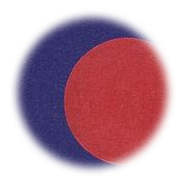
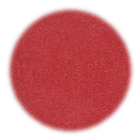
누끼 분리 보강, 해달 정중심, lenis 스무스 스크롤과 자석 스냅

diff --git a/src/components/minhwa/ArtStage.vue b/src/components/minhwa/ArtStage.vue
@@ -42,10 +42,10 @@ const washStyle = computed(() => ({
   opacity: clamp01((props.p - 0.87) / 0.12).toFixed(3),
 }))
 
-// 흐린 원화 색면 배경 — 빠져들수록 살짝 커지고 어두워진다
+// 원화 배경 — 너무 날아가지 않게 또렷함을 유지한 채 뒤로 물러난다
 const backdropStyle = computed(() => ({
-  transform: `scale(${(1.35 + dive.value * 0.2).toFixed(3)}) translate3d(${(-props.mx * 8).toFixed(1)}px, ${(-props.my * 6).toFixed(1)}px, 0)`,
-  opacity: (0.5 - dive.value * 0.12).toFixed(3),
+  transform: `scale(${(1.32 + dive.value * 0.18).toFixed(3)}) translate3d(${(-props.mx * 8).toFixed(1)}px, ${(-props.my * 6).toFixed(1)}px, 0)`,
+  opacity: (0.78 - dive.value * 0.1).toFixed(3),
 }))
 
 // 누끼 인물 — 깊이별 시차 + 빠져들 때 분리
@@ -65,13 +65,17 @@ function cutStyle(c) {
 
 // ── inkfill ──
 // waterIntro면 해·달이 물에서 떠오른 뒤(p~0.24)에야 물감이 번지기 시작한다
-const fillStart = computed(() => (props.waterIntro ? 0.24 : 0.05))
+const fillStart = computed(() => (props.waterIntro ? 0.34 : 0.05))
 const fillR = computed(() => easeOut(clamp01((props.p - fillStart.value) / 0.36)) * 165)
 const fillStyle = computed(() => {
   const g = `radial-gradient(ellipse 85% 90% at 46% 38%, #000 ${Math.max(0, fillR.value - 34)}%, transparent ${fillR.value}%)`
   return { maskImage: g, WebkitMaskImage: g }
 })
 const dropsDone = computed(() => fillR.value > 150)
+// 수면 도입이면 해·달이 다 떠오른 뒤에야 수묵 밑그림이 배어난다
+const grayStyle = computed(() => ({
+  opacity: props.waterIntro ? clamp01((props.p - 0.28) / 0.12).toFixed(3) : '1',
+}))
 
 // 수면 도입 — 해·달이 물에서 떠오르고, 물은 서서히 걷힌다
 const riseT = computed(() => easeOut(clamp01((props.p - 0.02) / 0.26)))
@@ -162,7 +166,7 @@ const snowFlakes = Array.from({ length: 24 }, (_, i) => ({
 
       <!-- ══ 물감 낙하 수묵 채색 (+ 해·달 누끼 부유) ══ -->
       <template v-else-if="effect === 'inkfill'">
-        <img :src="img" alt="" class="art-img gray" draggable="false" />
+        <img :src="img" alt="" class="art-img gray" draggable="false" :style="grayStyle" />
         <img :src="img" alt="" class="art-img colorized" draggable="false" :style="fillStyle" />
         <!-- 수면 도입: 해·달이 물에서 떠오르고, 화폭이 차면 제 자리에 스며든다 -->
         <template v-if="waterIntro">
@@ -192,7 +196,7 @@ const snowFlakes = Array.from({ length: 24 }, (_, i) => ({
           <img :src="img" alt="" draggable="false" />
         </div>
         <span v-for="(c, i) in cuts" :key="'k' + i" class="cut-wrap" :style="cutStyle(c)">
-          <MinhwaCut :src="c.src" :parts="c.parts ?? []" :idle="c.idle" />
+          <MinhwaCut :src="c.src" :parts="c.parts ?? []" :idle="c.idle" silhouette />
         </span>
       </template>
     </div>
@@ -254,7 +258,7 @@ const snowFlakes = Array.from({ length: 24 }, (_, i) => ({
   width: 100%;
   height: 100%;
   object-fit: cover;
-  filter: blur(30px) saturate(0.85);
+  filter: blur(12px) saturate(0.95);
 }
 .cut-wrap {
   position: absolute;

diff --git a/src/views/MinhwaHomeView.vue b/src/views/MinhwaHomeView.vue
@@ -57,8 +57,8 @@ const chapters = [
     tone: 'light',
     cuts: [
       // ix/iy = 원화(2560x1106) 속 해·달의 좌표 비율, dvh = 지름(vh)
-      { src: cut('obongdo_moon'), ix: 0.263, iy: 0.121, dvh: 17.7, depth: 10 },
-      { src: cut('obongdo_sun'), ix: 0.703, iy: 0.113, dvh: 16.6, depth: 14 },
+      { src: cut('obongdo_moon'), ix: 0.277, iy: 0.1293, dvh: 10.3, depth: 10 },
+      { src: cut('obongdo_sun'), ix: 0.7172, iy: 0.1212, dvh: 12.7, depth: 14 },
     ],
     line: '비 갠 물 위로 해와 달이 떠오릅니다 — 볕이 좋은 고을들입니다.',
     empty: '오늘은 맑게 갠 고을이 없습니다.',
@@ -206,13 +206,40 @@ function onMove(e) {
   tx = (e.clientX / window.innerWidth) * 2 - 1
   ty = (e.clientY / window.innerHeight) * 2 - 1
 }
+
+// 자석 스냅 — 스크롤이 멈췄을 때 어중간한 지점이면 정착점으로 스르륵
+function magnetSnap() {
+  const i = activeIdx.value
+  if (i < 0) return
+  const el = chapterEls.value[i]
+  if (!el) return
+  const vh = window.innerHeight
+  const p = progress.value[i] ?? 0
+  let target = null
+  if (p > 0.9) {
+    const next = chapterEls.value[i + 1]
+    if (next) target = next.getBoundingClientRect().top + window.scrollY + (next.offsetHeight - vh) * 0.42
+  } else if (p > 0.008 && p < 0.1) {
+    target = el.getBoundingClientRect().top + window.scrollY + (el.offsetHeight - vh) * 0.42
+  }
+  if (target !== null) {
+    if (window.__lenis) window.__lenis.scrollTo(target, { duration: 1.7 })
+    else window.scrollTo({ top: target, behavior: 'smooth' })
+  }
+}
+let still = 0
+let magnetArmed = true
 function loop() {
   const y = window.scrollY
   if (y !== lastY) {
     lastY = y
     measure()
+    still = 0
+    magnetArmed = true
+  } else if (magnetArmed && ++still > 20) {
+    magnetArmed = false
+    magnetSnap()
   }
-  // 마우스 시차는 lerp로 부드럽게
   mx.value += (tx - mx.value) * 0.06
   my.value += (ty - my.value) * 0.06
   rafId = requestAnimationFrame(loop)

diff --git a/src/views/WorldWeatherView.vue b/src/views/WorldWeatherView.vue
@@ -66,9 +66,40 @@ function onMove(e) {
   tx = (e.clientX / window.innerWidth) * 2 - 1
   ty = (e.clientY / window.innerHeight) * 2 - 1
 }
+
+// 자석 스냅 — 스크롤이 멈췄을 때 어중간한 지점이면 정착점으로 스르륵
+function magnetSnap() {
+  const i = activeIdx.value
+  if (i < 0) return
+  const el = chapterEls.value[i]
+  if (!el) return
+  const vh = window.innerHeight
+  const p = progress.value[i] ?? 0
+  let target = null
+  if (p > 0.9) {
+    const next = chapterEls.value[i + 1]
+    if (next) target = next.getBoundingClientRect().top + window.scrollY + (next.offsetHeight - vh) * 0.42
+  } else if (p > 0.008 && p < 0.1) {
+    target = el.getBoundingClientRect().top + window.scrollY + (el.offsetHeight - vh) * 0.42
+  }
+  if (target !== null) {
+    if (window.__lenis) window.__lenis.scrollTo(target, { duration: 1.7 })
+    else window.scrollTo({ top: target, behavior: 'smooth' })
+  }
+}
+let still = 0
+let magnetArmed = true
 function loop() {
   const y = window.scrollY
-  if (y !== lastY) { lastY = y; measure() }
+  if (y !== lastY) {
+    lastY = y
+    measure()
+    still = 0
+    magnetArmed = true
+  } else if (magnetArmed && ++still > 20) {
+    magnetArmed = false
+    magnetSnap()
+  }
   mx.value += (tx - mx.value) * 0.06
   my.value += (ty - my.value) * 0.06
   rafId = requestAnimationFrame(loop)

diff --git a/src/App.vue b/src/App.vue
@@ -1,5 +1,26 @@
 <script setup>
+import { onMounted, onBeforeUnmount } from 'vue'
 import { RouterLink, RouterView } from 'vue-router'
+import Lenis from 'lenis'
+
+// 레퍼런스와 동일한 관성 스무스 스크롤 — 화폭이 물 흐르듯 넘어간다
+let lenis = null
+let rafId = 0
+onMounted(() => {
+  if (window.matchMedia('(prefers-reduced-motion: reduce)').matches) return
+  lenis = new Lenis({ lerp: 0.09, smoothWheel: true })
+  window.__lenis = lenis
+  const raf = (t) => {
+    lenis.raf(t)
+    rafId = requestAnimationFrame(raf)
+  }
+  rafId = requestAnimationFrame(raf)
+})
+onBeforeUnmount(() => {
+  cancelAnimationFrame(rafId)
+  lenis?.destroy()
+  window.__lenis = null
+})
 </script>
 
 <template>
